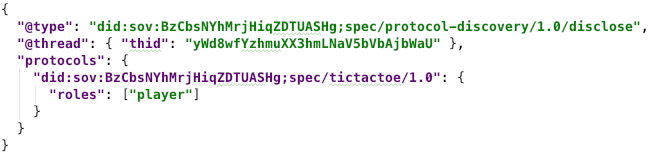
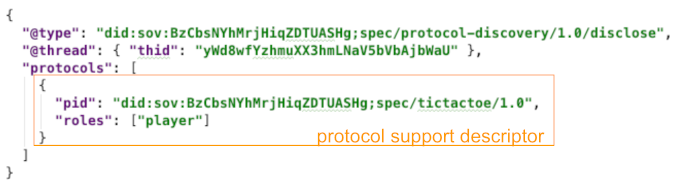
Replace dict with array of tuples; see http://bit.ly/2FGZMJ8

Changed region(s): [[0.0308, 0.129, 1.0, 0.8516], [0.0, 0.8774, 0.0308, 0.9806], [0.0, 0.0258, 0.0308, 0.1032]]

diff --git a/text/protocol-discovery/README.md b/text/protocol-discovery/README.md
@@ -69,12 +69,12 @@ A `protocol-discovery/disclose` message looks like this:
 
 [![sample disclose](disclose.png)](disclose.json)
 
-The `protocols` field is a JSON object that contains zero or more keys that
-match the query. Each key is a protocol version (fully qualified message
-family identifier such as `did:sov:BzCbsNYhMrjHiqZDTUASHg;spec/tictactoe/1.0`).
-Its value is a JSON object that enumerates the roles the responding agent
-can play in the associated protocol, and, optionally, the message types it
-can *receive* (not send).
+The `protocols` field is a JSON array of __protocol support descriptor__
+objects that match the query. Each descriptor has a `pid` that contains
+a protocol version (fully qualified message family identifier such as
+`did:sov:BzCbsNYhMrjHiqZDTUASHg;spec/tictactoe/1.0`), plus a `roles`
+array that enumerates the roles the responding agent
+can play in the associated protocol.
 
 Response messages say, "Here are some protocols I support that matched
 your query, and some things I can do with each one."
@@ -94,7 +94,7 @@ until the end, and is optional anyway. Alice can start a tictactoe game
 with Bob and will eventually see whether he has the right idea about
 `outcome` messages.
 
-The empty `{}` in this response does not say, "I support no roles
+The missing `roles` in this response does not say, "I support no roles
 in this protocol." It says, "I support the protocol but
 I'm providing no detail about specific roles."
 
@@ -138,7 +138,7 @@ how forthcoming to be.
 Sometimes, you might prettify your agent plaintext message one way,
 sometimes another.
 
-##### Vary the order of keys in the `protocols` object.
+##### Vary the order of items in the `protocols` array.
 
 If more than one key matches a query, do not always return them in
 alphabetical order or version order. If you do return them in order,
